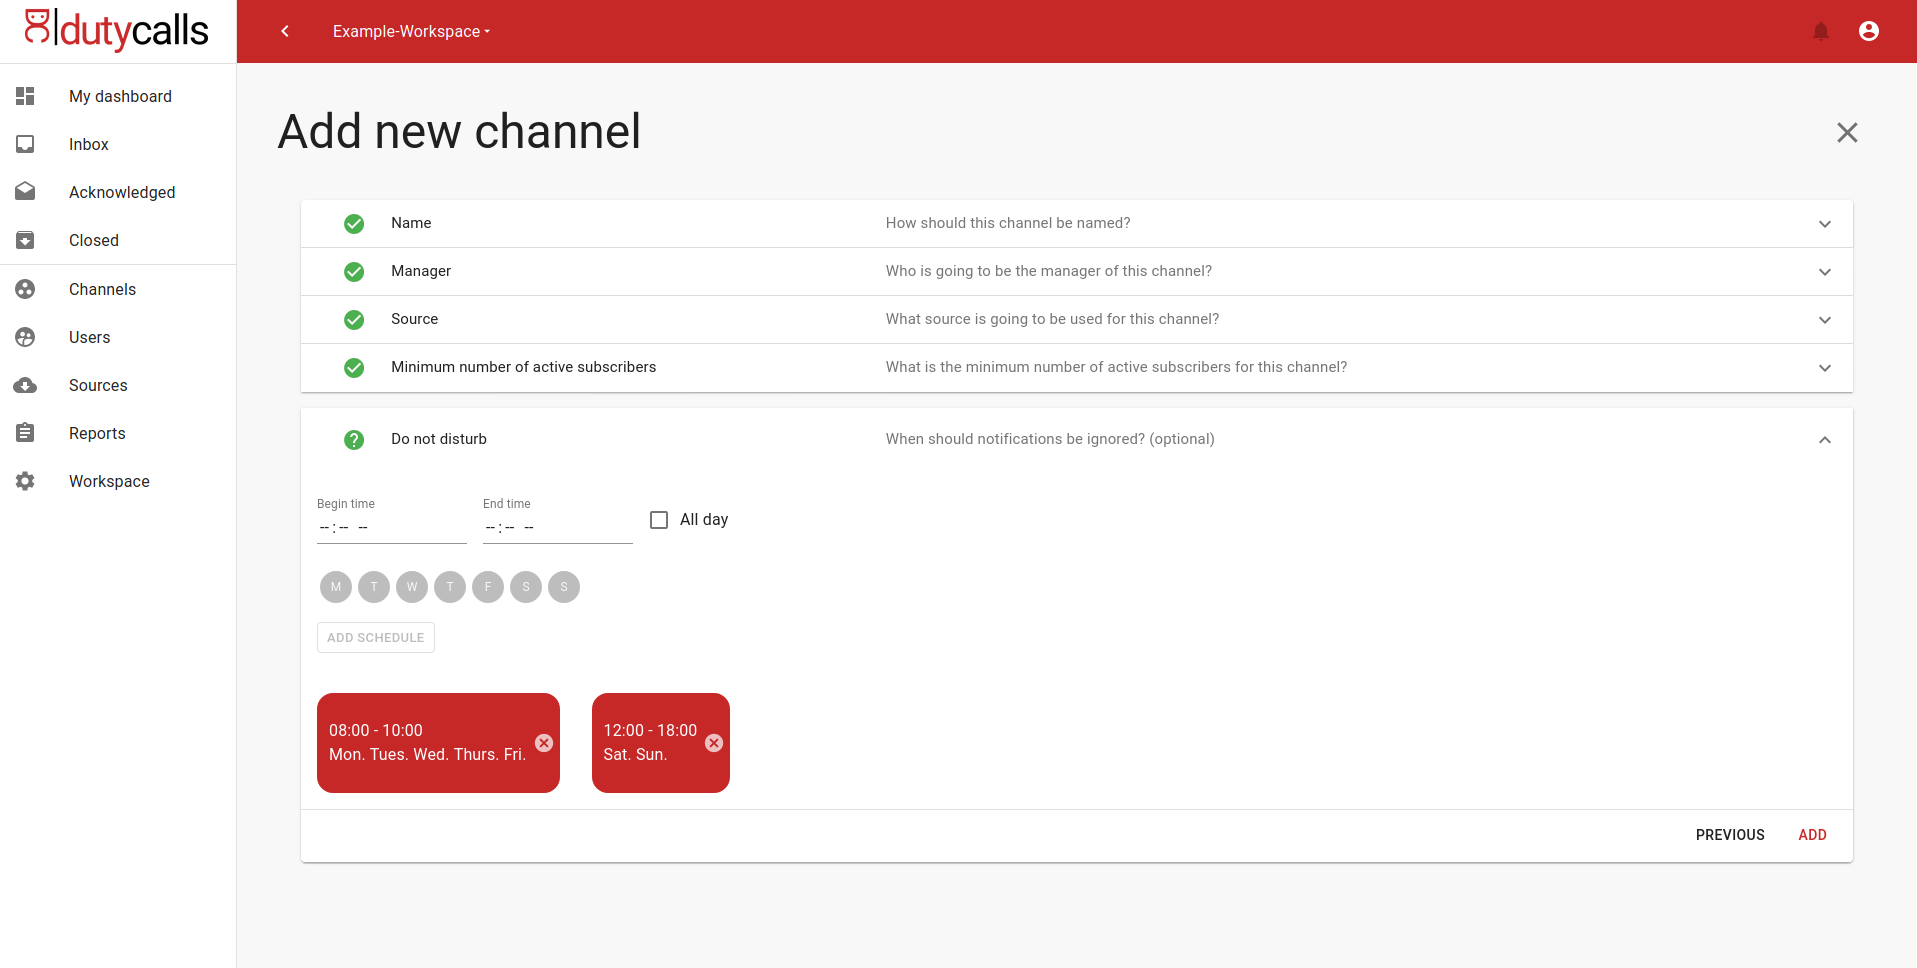
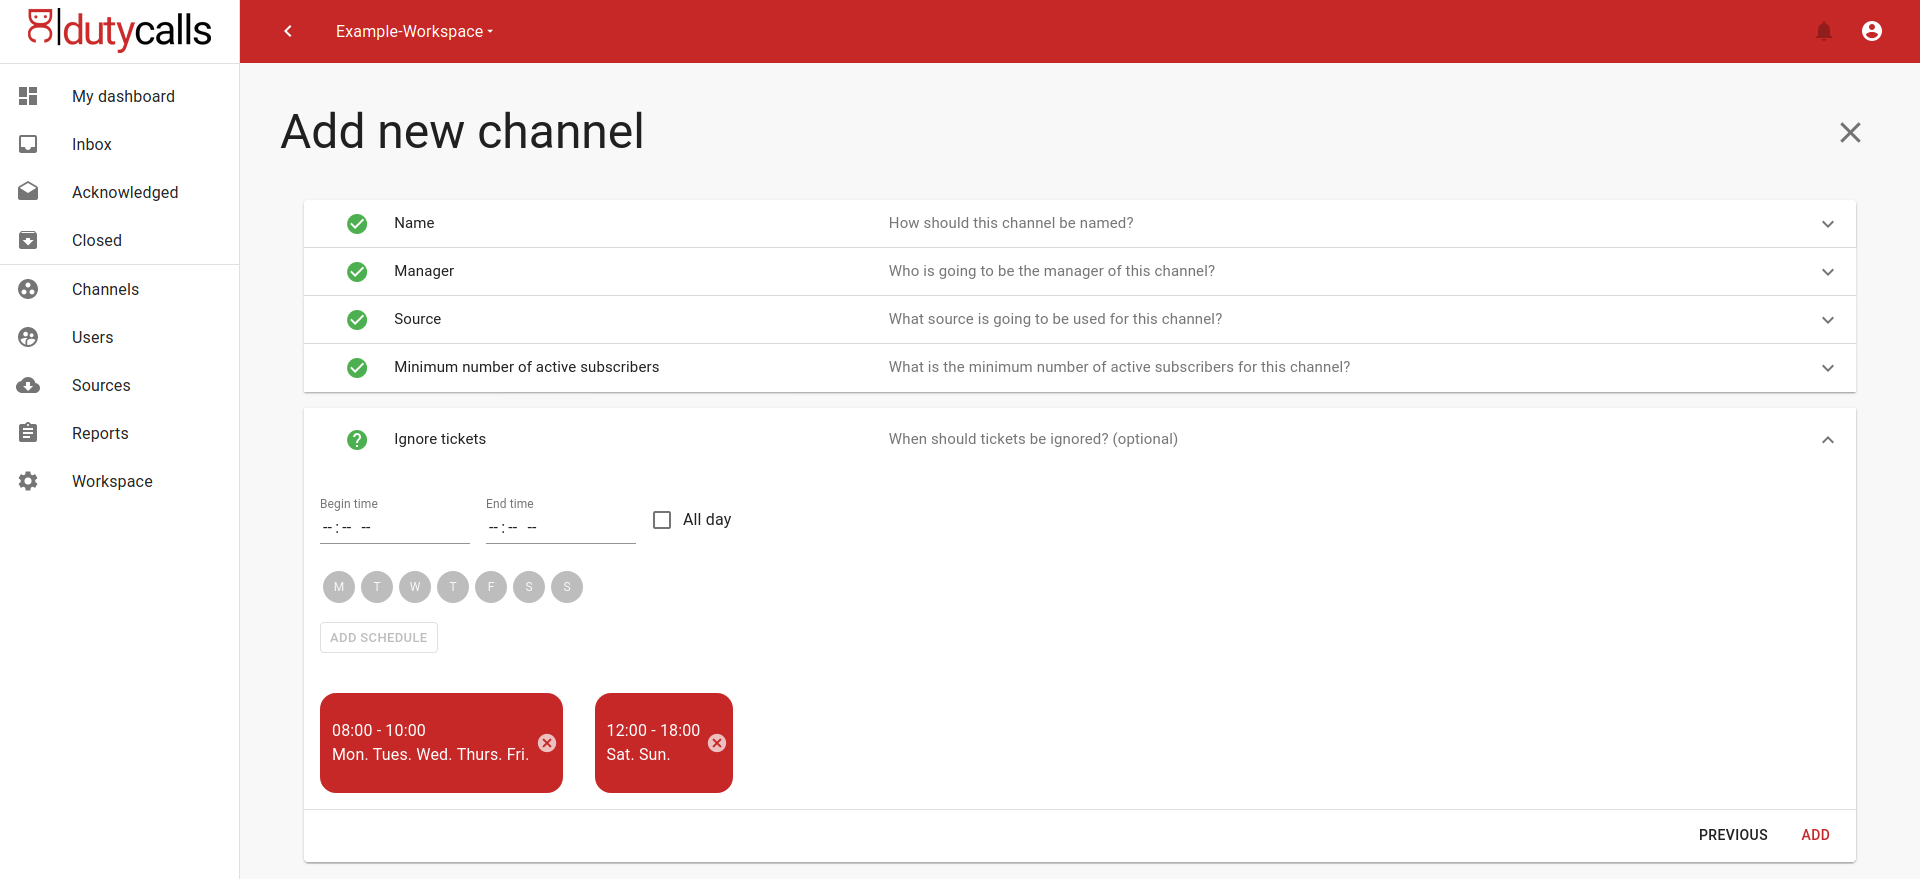
Renamed notifications to tickets

diff --git a/docs/getting-started.md b/docs/getting-started.md
@@ -2,7 +2,7 @@
 
 ## Overview
 
-To start making use of our great product there are a few things that need to be done before any notification can be received by DutyCalls. These things are thoroughly described in the following steps.
+To start making use of our great product there are a few things that need to be done before any ticket can be received by DutyCalls. These things are thoroughly described in the following steps.
 
 ## Step 1 - Create a workspace
 
@@ -24,21 +24,21 @@ After you have signed in to your workspace, you have to add a source.
 
 ### What is a source?
 
-A source is literally the source from where you receive notifications. It is probably the system that you want to connect to DutyCalls. You do not actually have to connect your system to DutyCalls, as it uses a REST API. But you must indicate what you are going to send. Notifications can be sent in any format and DutyCalls needs to now how it should interpret these notifications. So a source is actually a mapping between DutyCalls and another system.
+A source is literally the source from where you receive tickets. It is probably the system that you want to connect to DutyCalls. You do not actually have to connect your system to DutyCalls, as it uses a REST API. But you must indicate what you are going to post. Tickets can be posted in any format and DutyCalls needs to now how it should interpret these tickets. So a source is actually a mapping between DutyCalls and another system.
 
 To add a source you have to go to the sources page, click here on the **Add source** button.
 
 ![image - Add a source - Step 1](images/add-source-1.png)
 
-Here you will be asked for a name and optionally for a sample of a notification. This depends on whether you want to send notifications with a custom format or not.
+Here you will be asked for a name and optionally for a sample of a ticket. This depends on whether you want to post tickets with a custom format or not.
 
 ![image - Add a source - Step 2](images/add-source-2.png)
 
-A sample is just an example of a notification (must be valid JSON) from the system that you want to connect to DutyCalls. After pasting it, you can map all or your keys / values to the corresponding properties of a notification within DutyCalls. Lastly, click on the **Add** button and the source will be added to your workspace.
+A sample is just an example of a ticket (must be valid JSON) from the system that you want to connect to DutyCalls. After pasting it, you can map all or your keys / values to the corresponding properties of a ticket within DutyCalls. Lastly, click on the **Add** button and the source will be added to your workspace.
 
 ![image - Add a source - Step 3](images/add-source-3.png)
 
-As a result, DutyCalls knows how to use and display your notification. When defining a custom format, it is not mandatory to override all properties of a notification. It may of course be possible that, for example, you do not have to show a link in a notification or no severity is included in a notification. There are, however, two mandatory properties. These are: `title` and `body`.
+As a result, DutyCalls knows how to use and display your ticket. When defining a custom format, it is not mandatory to override all properties of a ticket. It may of course be possible that, for example, you do not have to show a link in a ticket or no severity is included in a ticket. There are, however, two mandatory properties. These are: `title` and `body`.
 
 ## Step 3 - Add a channel
 
@@ -46,7 +46,7 @@ The next logical step is to add a channel.
 
 ### What is a channel?
 
-A channel can be seen as a path a notification follows after being sent. All of the notifications from all of the sources that provide the same `channelName` will gather here. When sending a notification to DutyCalls, it is mandatory to provide the name of at least one channel. Users will be able to subscribe to these channels, which ensures that they will receive these notifications.
+A channel can be seen as a path a ticket follows after being sent. All of the tickets from all of the sources that provide the same `channelName` will gather here. When posting a ticket to DutyCalls, it is mandatory to provide the name of at least one channel. Users will be able to subscribe to these channels, which ensures that they will receive these tickets.
 
 To add a channel. Go to the channels page and click on the **Add channel** button.
 
@@ -56,23 +56,23 @@ You will have to fill in the following information:
 
 * Name: The name of the new channel.
 * Manager: A manager is ultimately responsible person within a channel and will, among other things, receive warnings when something is wrong within a channel. Every user within a workspace can be designated as a manager of a channel.
-* Source: By selecting the source, the channel knows from which source it must receive notifications.
+* Source: By selecting the source, the channel knows from which source it must receive tickets.
 * Minimum subscribers: A minimum number of subscribers have to be defined. If this minimum is not reached, a warning will be raised.
-* Schedules: Schedules or rather 'ignore schedules' are used to indicate when you do not want the channel to receive notifications. This does not have to be done immediately and can always be added / adjusted at a later stage. (optional)
+* Schedules: Schedules or rather 'ignore schedules' are used to indicate when you do not want the channel to receive tickets. This does not have to be done immediately and can always be added / adjusted at a later stage. (optional)
 
 Now click on the **Add** button and the new channel will be added to your workspace.
 
 ![image - Add a channel - Step 2](images/add-channel-2.png)
 
-## Step 4 - Send a test notification
+## Step 4 - Create a new ticket
 
 To check if everything is set up properly, go back to the sources page and click on the **Setup** button of the source that you have just added.
-A dialog now shows up. Click on the second tab called **Test Notification** and you are ready to send a test notification. Just fill in the required fields
-and click on the **Send** button. If all is well, you should now see a notification in the inbox.
+A dialog now shows up. Click on the second tab called **New Ticket** and you are ready to create a new ticket. Just fill in the required fields
+and click on the **Create** button. If all is well, you should now see a ticket in the inbox.
 
-![image - Send test notification](images/setup-source-dialog-2.png)
+![image - Create new ticket](images/setup-source-dialog-2.png)
 
-> Note: The `title` of a notification could be part of push notifications, emails, text messages being send by DutyCalls, which will be truncated when being too long. If you want to make sure that notification titles are displayed correctly, stick to a maximum of `50` characters.  
+> Note: The `title` of a ticket could be part of push notifications, emails, text messages being send by DutyCalls, which will be truncated when being too long. If you want to make sure that ticket titles are displayed correctly, stick to a maximum of `50` characters.  
 
 ## Where to next?
 

diff --git a/docs/index.md b/docs/index.md
@@ -1,6 +1,6 @@
 # Welcome to DutyCalls
 
-DutyCalls is a notification routing tool made to make notifications more visible to its audience. Many organizations struggle with the fact that notifications are not viewed on time or not viewed at all by their target audience. This can lead to unforeseen circumstances. DutyCalls is here to solve that problem. DutyCalls has a mobile and web application to stay up to date on the latest notifications in a very user-friendly and intuitive way. In addition, integrating your system with DutyCalls has never been easier. For more information about our product, please go to **[dutycalls.me](https://dutycalls.me)**.
+DutyCalls is a notification routing tool made to make events more visible to its audience. Many organizations struggle with the fact that events are not seen on time or not seen at all by their target audience. This can lead to unforeseen circumstances. DutyCalls is here to solve that problem. DutyCalls has a mobile and web application to stay up to date on the latest events in a very user-friendly and intuitive way. In addition, integrating your system with DutyCalls has never been easier. For more information about our product, please go to **[dutycalls.me](https://dutycalls.me)**.
 
 In this documentation the following things are described:
 

diff --git a/docs/rest-api.md b/docs/rest-api.md
@@ -24,13 +24,13 @@ You can find these credentials by:
 In addition to the credentials and the data itself, the name or names of the targeted channels must also be included in the HTTP request. These can be added as the value of the query parameter `channel` in the URI of the request. An example of this can be seen below.
 
 ```curl
-curl -X POST "https://dutycalls.me/api/notification?channel=$CHANNEL_NAME"
+curl -X POST "https://dutycalls.me/api/ticket?channel=$CHANNEL_NAME"
     -H  "accept: application/json"
         -H  "Content-Type: application/json"
             -H "Authorization: Basic $CREDENTIALS"
                 -d {
-                        "title": "This is the title of the notification",
-                        "body": "This is the body of the notification",
+                        "title": "This is the title of the ticket",
+                        "body": "This is the body of the ticket",
                         "severity": "medium"
                     }
 ```
